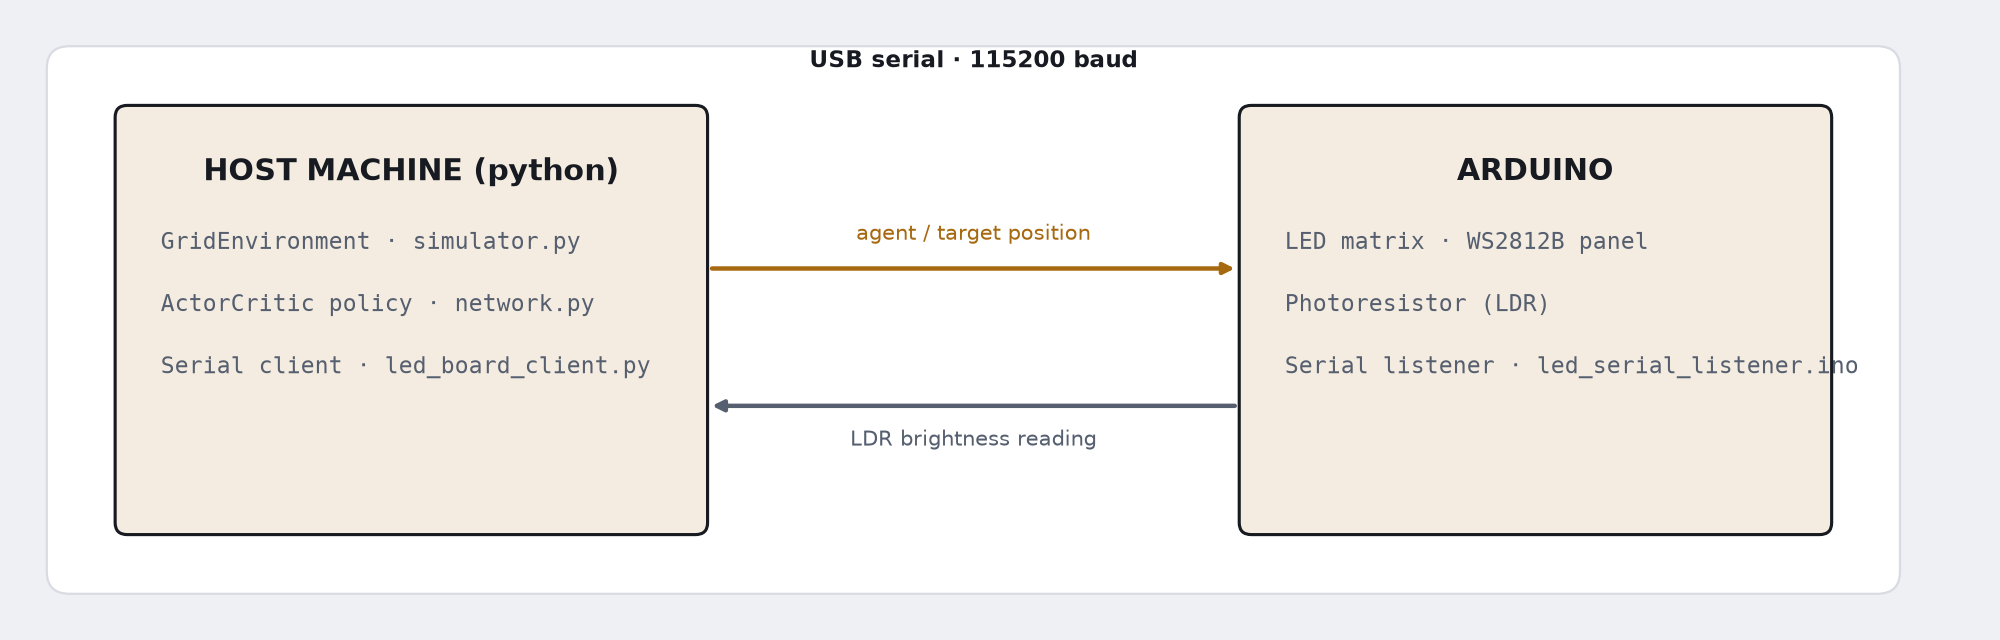
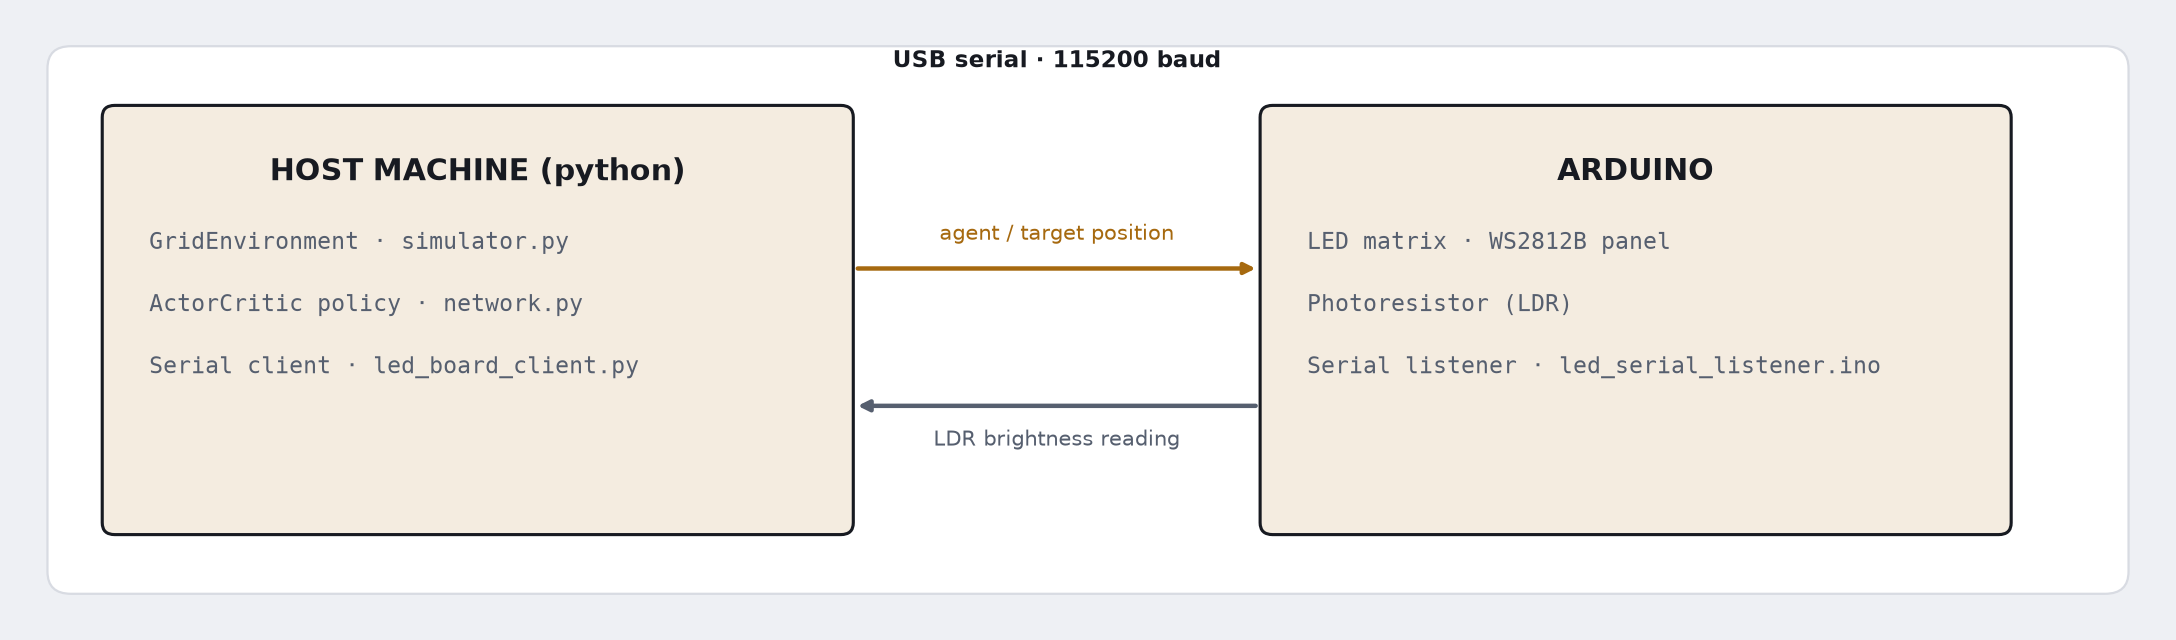
Add finished-rig photo and dark-room demo GIF, widen system diagram boxes
- assets/rig-photo.png: photo of the finished rig replacing the "coming
  soon" placeholder, cropped and resized down to 480px wide (~0.39MB)
- assets/grid-image.png: resized to match rig-photo.png at 480px wide
  (~0.025MB)
- assets/board-demo.gif: dark-room demo clip (10s-24s of the source
  video, 2x speed, top 20% cropped, audio stripped, ~300x427 at 10fps,
  ~5.6MB), placed at the end of the problem section
- assets/system-diagram.py: widen both boxes so the longest line
  ("Serial listener - led_serial_listener.ino") no longer overflows
  past the box edge
- .gitignore: exclude the raw HEIF/MP4/JPG photo/video sources these
  were derived from (the video alone is >150MB)

diff --git a/README.md b/README.md
@@ -8,17 +8,19 @@ A target sits at an unknown location within an 8×8 grid. Each episode, an agent
 
 It's a blind search, like an ant following a faint scent trail to a sugar cube — no map, no coordinates, just a signal that gets stronger or weaker depending on which way it moves.
 
-<p align="center"><img src="assets/grid-image.png" width="560" alt="Grid diagram: target with a two-ring proximity halo, a dashed start square, elsewhere blank"></p>
+<p align="center"><img src="assets/grid-image.png" width="480" alt="Grid diagram: target with a two-ring proximity halo, a dashed start square, elsewhere blank"></p>
 
 We implement this physically as a grid of LEDs, with a fixed photoresistor (LDR) reading brightness at the target's position. Since physically relocating the LDR every episode isn't practical, the target is instead fixed at the center of a larger 16×16 grid, and each episode uses a different random 8×8 subgrid (window) containing that center — which changes the target's position *relative to* the agent's local 8×8 view without ever moving the sensor. One LED lights up at a time to mark the agent's current position within that window; as it moves from cell to cell, the light reaching the fixed LDR changes with it — brighter the closer the active LED is to the target, dimmer farther away — and that brightness reading is the proximity signal the policy receives, standing in for the "warmth" described above.
 
-<p align="center"><em>Photo of the finished rig — coming soon.</em></p>
+<p align="center"><img src="assets/rig-photo.png" width="480" alt="Photo of the finished rig: the WS2812B panel lit mid-episode (agent white, boundary green, trail red, target blue), with the LDR sensor mounted above it and the Arduino/breadboard alongside"></p>
 
 We train a PPO policy to solve this purely in simulation, then evaluate the trained policy on this physical hardware.
 
 <p align="center"><img src="assets/system-diagram.png" width="720" alt="System diagram: host machine running the policy and simulator, connected over USB serial to an Arduino driving an LED matrix and reading an LDR"></p>
 
 The policy and the environment both live on a host machine in Python; the Arduino only drives the LED display and reports the LDR reading.
+
+<p align="center"><img src="assets/board-demo.gif" width="360" alt="The panel mid-episode in a dark room: the boundary lit green around the current subgrid, the agent glowing white, and a dim red trail behind it"></p>
 
 ## Docker Setup
 
@@ -173,3 +175,15 @@ Reports steps/return/success for both passes plus the step-count gap between the
 python3 eval_ldr_benchmark.py checkpoint_dir=trained_models/h64_l3_hist4_ep150_seed43/epoch_150
 ```
 Reports average steps and success rate for each of the two passes, plus how many instances the real run reached the target in fewer steps than simulation, and vice versa.
+
+
+Checkpoint: trained_models/h64_l3_hist4_ep150_seed43/epoch_150
+Benchmarked 100 fixed-dataset instances
+
+                 Avg Steps  Success Rate
+Simulation           11.30         1.000
+Real (LDR)           47.80         0.600
+
+Real won (fewer steps): 16/100
+Sim won (fewer steps):  58/100
+Ties:                   26/100
